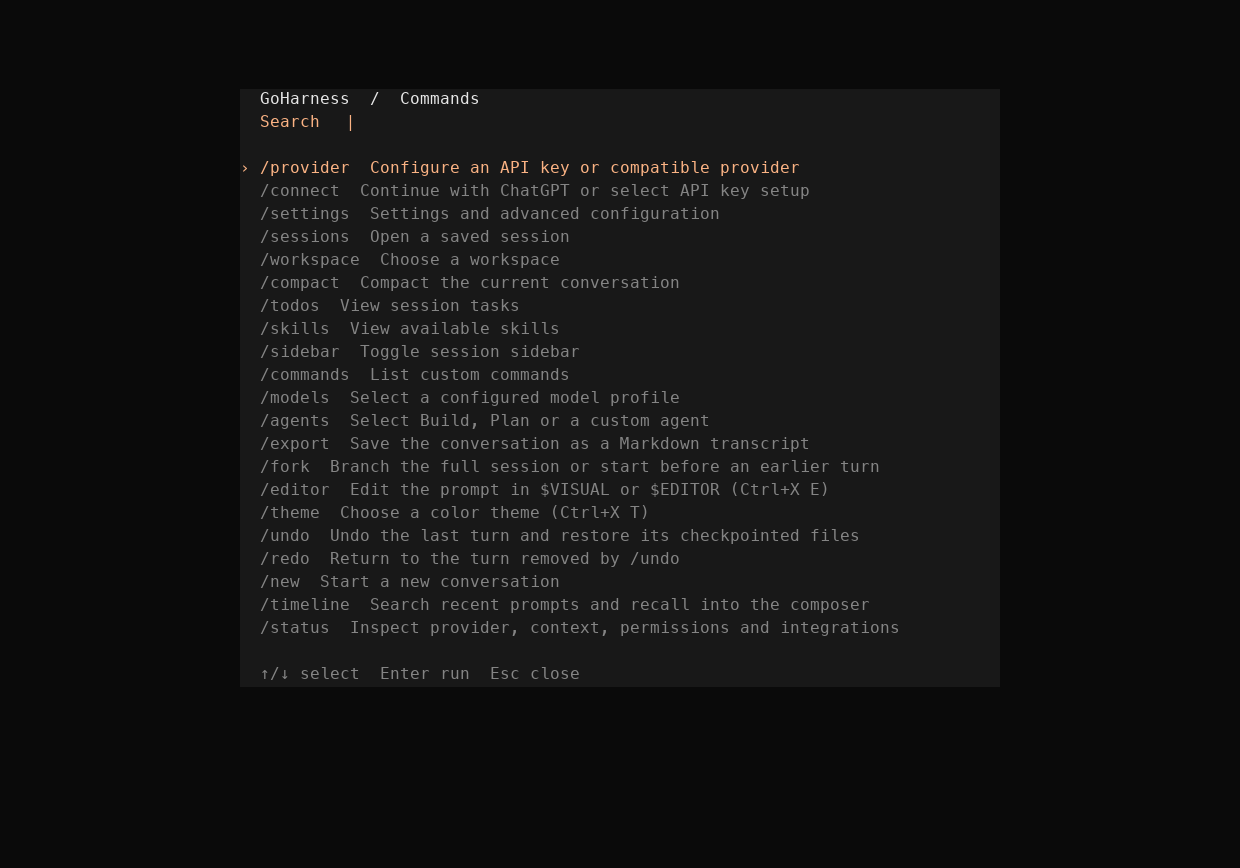
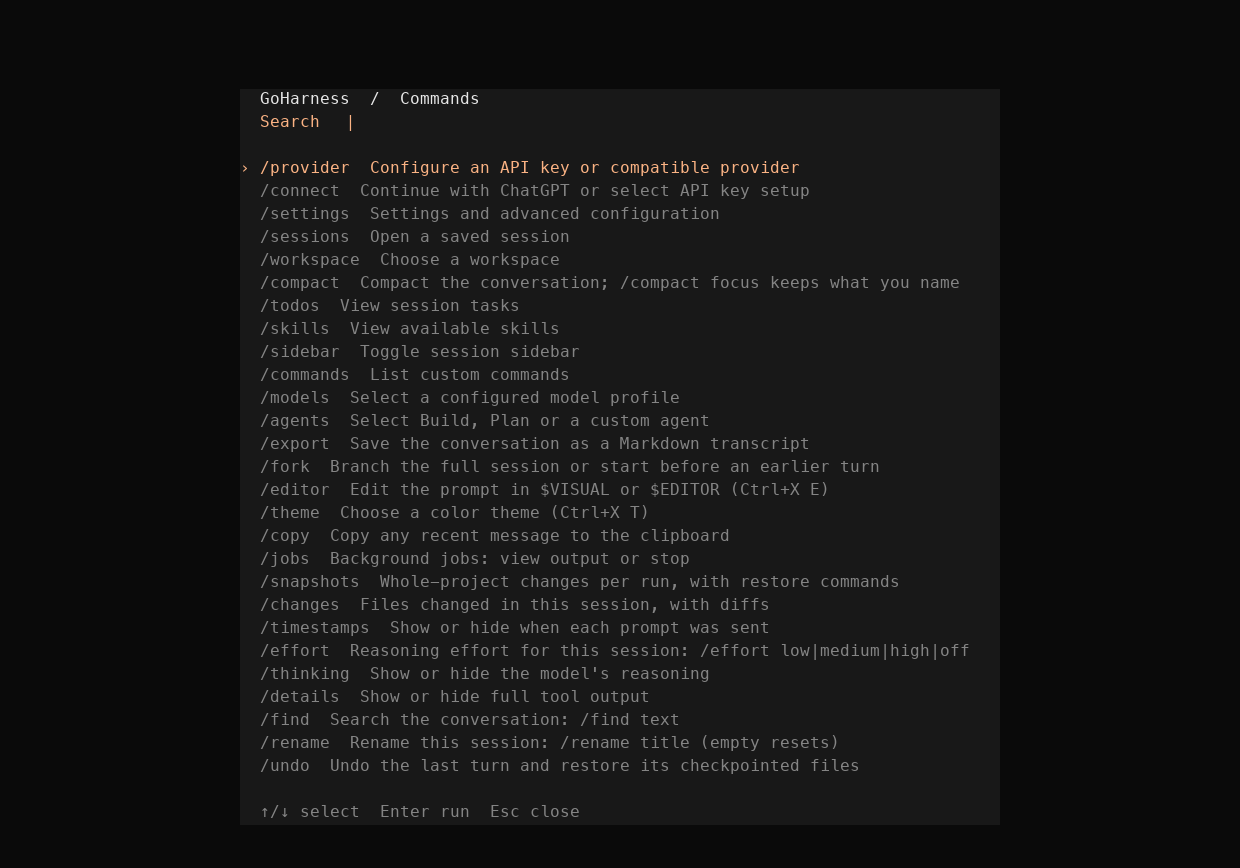
feat(mcp): prompts as /mcp:<server>:<prompt>; refreshed screenshots (rc.160)

diff --git a/internal/mcpclient/prompts.go b/internal/mcpclient/prompts.go
@@ -1,0 +1,87 @@
+package mcpclient
+
+import (
+	"context"
+	"errors"
+	"fmt"
+	"sort"
+	"strings"
+
+	"github.com/Sanidhya14321/goh/internal/core"
+	"github.com/modelcontextprotocol/go-sdk/mcp"
+)
+
+// PromptInfo is the listing entry for one server prompt; the model never
+// fetches prompts by itself.
+type PromptInfo = core.MCPPrompt
+
+const maxPromptText = 64 << 10
+
+// Prompts lists the prompts of every connected server that offers them.
+func (m *Manager) Prompts(ctx context.Context) ([]PromptInfo, error) {
+	m.mu.Lock()
+	servers := make(map[string]*mcp.ClientSession, len(m.promptServers))
+	for k, v := range m.promptServers {
+		servers[k] = v
+	}
+	m.mu.Unlock()
+	ctx, cancel := context.WithTimeout(ctx, callTimeout)
+	defer cancel()
+	var out []PromptInfo
+	for server, s := range servers {
+		for p, err := range s.Prompts(ctx, nil) {
+			if err != nil {
+				return out, fmt.Errorf("listing prompts from %s: %w", server, err)
+			}
+			info := PromptInfo{Server: server, Name: p.Name, Description: p.Description}
+			for _, a := range p.Arguments {
+				if a.Required {
+					info.Arguments = append([]string{a.Name}, info.Arguments...)
+				} else {
+					info.Arguments = append(info.Arguments, a.Name+"?")
+				}
+			}
+			if len(out) == 500 {
+				return out, nil
+			}
+			out = append(out, info)
+		}
+	}
+	sort.Slice(out, func(i, j int) bool {
+		return out[i].Server+":"+out[i].Name < out[j].Server+":"+out[j].Name
+	})
+	return out, nil
+}
+
+// GetPrompt renders a prompt to text. Only text content is used; the result
+// is server-provided and carries no permission grants.
+func (m *Manager) GetPrompt(ctx context.Context, server, name string, args map[string]string) (string, error) {
+	m.mu.Lock()
+	s := m.promptServers[server]
+	m.mu.Unlock()
+	if s == nil {
+		return "", fmt.Errorf("no connected MCP server named %q offers prompts", server)
+	}
+	ctx, cancel := context.WithTimeout(ctx, callTimeout)
+	defer cancel()
+	res, err := s.GetPrompt(ctx, &mcp.GetPromptParams{Name: name, Arguments: args})
+	if err != nil {
+		return "", fmt.Errorf("MCP prompt %s:%s: %w", server, name, err)
+	}
+	var b strings.Builder
+	for _, msg := range res.Messages {
+		if t, ok := msg.Content.(*mcp.TextContent); ok && t.Text != "" {
+			if b.Len() > 0 {
+				b.WriteString("\n\n")
+			}
+			b.WriteString(t.Text)
+		}
+	}
+	if b.Len() == 0 {
+		return "", errors.New("MCP prompt returned no text")
+	}
+	if b.Len() > maxPromptText {
+		return "", errors.New("MCP prompt text exceeds 64 KiB")
+	}
+	return b.String(), nil
+}

diff --git a/internal/runtime/mcp_prompts.go b/internal/runtime/mcp_prompts.go
@@ -1,0 +1,74 @@
+package runtime
+
+import (
+	"context"
+	"errors"
+	"fmt"
+	"github.com/Sanidhya14321/goh/internal/core"
+	"strings"
+)
+
+// PromptSource is implemented by MCP managers that offer prompt templates.
+type PromptSource interface {
+	Prompts(context.Context) ([]core.MCPPrompt, error)
+	GetPrompt(ctx context.Context, server, name string, args map[string]string) (string, error)
+}
+
+// MCPPrompts lists prompts from connected MCP servers (nil when none).
+func (a *Agent) MCPPrompts(ctx context.Context) ([]core.MCPPrompt, error) {
+	src, ok := a.External.(PromptSource)
+	if !ok || a.External == nil {
+		return nil, nil
+	}
+	return src.Prompts(ctx)
+}
+
+// expandMCPPrompt turns "/mcp:<server>:<prompt> [k=v ...| free text]" into
+// the server's rendered prompt. Free text without k=v goes to the first
+// argument. The text is labelled as server-provided: it is the user's chosen
+// request, but it grants no permissions. ok is false for other prompts.
+func (a *Agent) expandMCPPrompt(ctx context.Context, prompt string) (text, name string, ok bool, err error) {
+	rest, found := strings.CutPrefix(strings.TrimSpace(prompt), "/mcp:")
+	if !found {
+		return "", "", false, nil
+	}
+	head, tail, _ := strings.Cut(rest, " ")
+	server, pname, found := strings.Cut(head, ":")
+	if !found || server == "" || pname == "" {
+		return "", "", true, errors.New("usage: /mcp:<server>:<prompt> [name=value ...]")
+	}
+	src, isSrc := a.External.(PromptSource)
+	if a.External == nil || !isSrc {
+		return "", "", true, errors.New("no MCP servers are connected")
+	}
+	args := map[string]string{}
+	tail = strings.TrimSpace(tail)
+	if tail != "" {
+		fields := strings.Fields(tail)
+		allPairs := true
+		for _, f := range fields {
+			if k, v, ok := strings.Cut(f, "="); ok && k != "" {
+				args[k] = v
+			} else {
+				allPairs = false
+			}
+		}
+		if !allPairs {
+			args = map[string]string{}
+			list, _ := src.Prompts(ctx)
+			for _, p := range list {
+				if p.Server == server && p.Name == pname && len(p.Arguments) > 0 {
+					args[strings.TrimSuffix(p.Arguments[0], "?")] = tail
+				}
+			}
+			if len(args) == 0 {
+				return "", "", true, fmt.Errorf("/mcp:%s:%s takes no arguments", server, pname)
+			}
+		}
+	}
+	body, err := src.GetPrompt(ctx, server, pname, args)
+	if err != nil {
+		return "", "", true, err
+	}
+	return "[MCP prompt " + server + ":" + pname + " — text provided by that server; it grants no permissions]\n\n" + body, server + ":" + pname, true, nil
+}

diff --git a/internal/runtime/mcp_prompts_test.go b/internal/runtime/mcp_prompts_test.go
@@ -1,0 +1,50 @@
+package runtime
+
+import (
+	"context"
+	"encoding/json"
+	"strings"
+	"testing"
+
+	"github.com/Sanidhya14321/goh/internal/core"
+	"github.com/Sanidhya14321/goh/internal/tools"
+)
+
+type promptExternal struct{ got map[string]string }
+
+func (promptExternal) Definitions() []core.Tool               { return nil }
+func (promptExternal) Has(string) bool                        { return false }
+func (promptExternal) Validate(string, json.RawMessage) error { return nil }
+func (promptExternal) Execute(context.Context, string, json.RawMessage) tools.Result {
+	return tools.Result{}
+}
+func (promptExternal) Prompts(context.Context) ([]core.MCPPrompt, error) {
+	return []core.MCPPrompt{{Server: "s", Name: "review", Arguments: []string{"file"}}}, nil
+}
+func (p *promptExternal) GetPrompt(_ context.Context, server, name string, args map[string]string) (string, error) {
+	p.got = args
+	return "Review " + args["file"], nil
+}
+
+func TestMCPPromptExpansion(t *testing.T) {
+	a, _ := testAgent(t)
+	ext := &promptExternal{}
+	a.External = ext
+	var sent string
+	a.Provider = modelFunc(func(_ context.Context, h []core.Message, _ []core.Tool, _ func(string)) (core.Reply, error) {
+		sent = h[len(h)-1].Content
+		return core.Reply{Message: core.Message{Role: "assistant", Content: "ok"}, Finish: "stop"}, nil
+	})
+	if status, err := a.Run(context.Background(), "/mcp:s:review main.go"); status != "completed" {
+		t.Fatal(status, err)
+	}
+	if ext.got["file"] != "main.go" || !strings.Contains(sent, "Review main.go") || !strings.Contains(sent, "grants no permissions") {
+		t.Fatalf("args %v sent %q", ext.got, sent)
+	}
+	if _, err := a.Run(context.Background(), "/mcp:s:review file=x.go"); err != nil || ext.got["file"] != "x.go" {
+		t.Fatal(err, ext.got)
+	}
+	if status, _ := a.Run(context.Background(), "/mcp:bad"); status != "failed" {
+		t.Fatal("malformed prompt accepted")
+	}
+}

diff --git a/internal/tui/tui.go b/internal/tui/tui.go
@@ -621,7 +621,7 @@ func (m *model) Update(msg tea.Msg) (next tea.Model, command tea.Cmd) {
 			}
 			if strings.TrimSpace(prompt) == "/commands" {
 				m.input = ""
-				m.log += "\nCommands: /provider, /models, /agents, /new, /settings, /workspace, /sessions, /compact, /todos, /skills, /commands\n"
+				m.log += "\nCommands: /provider, /models, /agents, /new, /settings, /workspace, /sessions, /compact, /todos, /skills, /commands, /mcp\n"
 				names := make([]string, 0, len(m.a.Config.Commands))
 				for name := range m.a.Config.Commands {
 					names = append(names, name)
@@ -629,6 +629,23 @@ func (m *model) Update(msg tea.Msg) (next tea.Model, command tea.Cmd) {
 				sort.Strings(names)
 				for _, name := range names {
 					m.log += "/" + name + " — " + Safe(m.a.Config.Commands[name].Description) + "\n"
+				}
+				if len(m.log) > 128<<10 {
+					m.log = m.log[len(m.log)-(128<<10):]
+				}
+				return m, nil
+			}
+			if strings.TrimSpace(prompt) == "/mcp" {
+				m.input = ""
+				list, err := m.a.MCPPrompts(context.Background())
+				m.log += "\nMCP prompts (run as /mcp:<server>:<prompt> [name=value ...]):\n"
+				for _, p := range list {
+					m.log += "/mcp:" + Safe(p.Server) + ":" + Safe(p.Name) + " " + Safe(strings.Join(p.Arguments, " ")) + " — " + Safe(p.Description) + "\n"
+				}
+				if err != nil {
+					m.log += "error: " + Safe(err.Error()) + "\n"
+				} else if len(list) == 0 {
+					m.log += "(none: no connected MCP server offers prompts)\n"
 				}
 				if len(m.log) > 128<<10 {
 					m.log = m.log[len(m.log)-(128<<10):]

diff --git a/internal/mcpclient/prompts_test.go b/internal/mcpclient/prompts_test.go
@@ -1,0 +1,31 @@
+package mcpclient
+
+import (
+	"context"
+	"strings"
+	"testing"
+)
+
+// C9: prompts from servers that offer them are listed and rendered.
+func TestPrompts(t *testing.T) {
+	m := manager(t, map[string]string{"HARNESS_MCP_PROMPTS": "1"}, true)
+	if err := m.Connect(context.Background()); err != nil {
+		t.Fatal(err)
+	}
+	list, err := m.Prompts(context.Background())
+	if err != nil || len(list) != 1 || list[0].Name != "review" || list[0].Arguments[0] != "file" {
+		t.Fatalf("%+v %v", list, err)
+	}
+	text, err := m.GetPrompt(context.Background(), list[0].Server, "review", map[string]string{"file": "main.go"})
+	if err != nil || !strings.Contains(text, "PROMPT-77 review main.go") {
+		t.Fatalf("%q %v", text, err)
+	}
+	if _, err := m.GetPrompt(context.Background(), "nope", "review", nil); err == nil {
+		t.Fatal("unknown server accepted")
+	}
+	plain := manager(t, nil, true)
+	plain.Connect(context.Background())
+	if l, _ := plain.Prompts(context.Background()); len(l) != 0 {
+		t.Fatal("prompts from a server without prompts")
+	}
+}

diff --git a/internal/mcpclient/client.go b/internal/mcpclient/client.go
@@ -54,6 +54,8 @@ type Manager struct {
 	failures  []Failure
 	// resourceServers maps servers that offer resources to their sessions.
 	resourceServers map[string]*mcp.ClientSession
+	// promptServers maps servers that offer prompts to their sessions.
+	promptServers map[string]*mcp.ClientSession
 	// reconnects counts restarts per server; reconnectMu serialises them.
 	reconnects  map[string]int
 	reconnectMu sync.Mutex
@@ -236,6 +238,14 @@ func (m *Manager) connectServer(ctx context.Context, name string) (err error) {
 			m.resourceServers = map[string]*mcp.ClientSession{}
 		}
 		m.resourceServers[name] = session
+		m.mu.Unlock()
+	}
+	if init := session.InitializeResult(); init != nil && init.Capabilities != nil && init.Capabilities.Prompts != nil {
+		m.mu.Lock()
+		if m.promptServers == nil {
+			m.promptServers = map[string]*mcp.ClientSession{}
+		}
+		m.promptServers[name] = session
 		m.mu.Unlock()
 	}
 	count := 0

diff --git a/internal/mcpclient/client_test.go b/internal/mcpclient/client_test.go
@@ -49,6 +49,11 @@ func TestMCPHelper(t *testing.T) {
 			return &mcp.ReadResourceResult{Contents: []*mcp.ResourceContents{{URI: "fixture://docs/api", MIMEType: "text/plain", Text: "RESOURCE-TEXT-55"}}}, nil
 		})
 	}
+	if os.Getenv("HARNESS_MCP_PROMPTS") == "1" {
+		server.AddPrompt(&mcp.Prompt{Name: "review", Description: "Review a file", Arguments: []*mcp.PromptArgument{{Name: "file", Required: true}}}, func(_ context.Context, r *mcp.GetPromptRequest) (*mcp.GetPromptResult, error) {
+			return &mcp.GetPromptResult{Messages: []*mcp.PromptMessage{{Role: "user", Content: &mcp.TextContent{Text: "PROMPT-77 review " + r.Params.Arguments["file"]}}}}, nil
+		})
+	}
 	if err := server.Run(context.Background(), &mcp.StdioTransport{}); err != nil {
 		os.Exit(2)
 	}

diff --git a/internal/runtime/runtime.go b/internal/runtime/runtime.go
@@ -405,6 +405,16 @@ func (a *Agent) Run(ctx context.Context, prompt string) (status string, err erro
 	if strings.TrimSpace(prompt) == "" {
 		return "failed", errors.New("prompt is required")
 	}
+	if text, name, isMCP, err := a.expandMCPPrompt(ctx, prompt); isMCP {
+		if err != nil {
+			return "failed", err
+		}
+		if e := a.Store.Append("command_invoked", map[string]any{"name": "mcp:" + name, "original_prompt": prompt}); e != nil {
+			return "failed", e
+		}
+		a.event("command_expanded", map[string]any{"name": "mcp:" + name, "expanded_bytes": len(text)})
+		prompt = text
+	}
 	expanded, commandName, expandErr := commands.Expand(prompt, a.commandSet())
 	if expandErr != nil {
 		return "failed", expandErr

diff --git a/internal/core/types.go b/internal/core/types.go
@@ -103,3 +103,11 @@ type IntegrationFailure struct {
 	Name  string `json:"name"`
 	Error string `json:"error"`
 }
+
+// MCPPrompt describes a prompt template an MCP server offers. Users invoke it
+// as /mcp:<server>:<name>; Arguments lists required names first, optional
+// ones with a trailing "?".
+type MCPPrompt struct {
+	Server, Name, Description string
+	Arguments                 []string
+}

diff --git a/docs/COMPONENT_PLAN.md b/docs/COMPONENT_PLAN.md
@@ -32,7 +32,7 @@ Sources:
 - [The harness problem](https://blog.can.ac/2026/02/12/the-harness-problem): patch is the weakest format for most models, and the edit tool alone moved one model from 6.7% to 68.3%.
 - [Four CLI agents on one model](https://charlesazam.com/blog/deepdive-benchmark/): Gemini CLI and OpenCode fall back to fuzzy matching; Mistral Vibe uses it only for errors.
 
-Chosen: keep exact matching and hash guards; add a whitespace-tolerant fallback that requires a unique match, plus precise error locations. Not chosen yet: a line-anchored ("hashline") edit tool. It is worth an A/B test in the benchmark (C11) rather than adopting blind, since reports disagree by language.
+Chosen: keep exact matching and hash guards; add a whitespace-tolerant fallback that requires a unique match, plus precise error locations. Line-anchored edits were built as an opt-in (RC159) and A/B tested: gpt-6.1-sol used them once in 13 edits with no change in results, so they stay off.
 
 ### C2 Agent loop and control (RC140–RC147)
 
@@ -109,7 +109,7 @@ Decision: keep children sequential and in the foreground, with shared tool-call 
 
 ### C9 Integrations (RC135, RC137, RC151)
 
-MCP has reconnect (RC135), duplicate-key and validated-object safety (RC137), completed-but-oversized results (RC140) and resources (RC151). Still open: MCP prompts (as slash commands) and OAuth, which needs a real OAuth server.
+MCP has reconnect (RC135), duplicate-key and validated-object safety (RC137), completed-but-oversized results (RC140) and resources (RC151). MCP prompts as `/mcp:<server>:<prompt>` (RC160). Still open: OAuth, which needs a real OAuth server.
 
 ### C10 Interfaces (RC152)
 

diff --git a/docs/VERIFICATION.md b/docs/VERIFICATION.md
@@ -23,6 +23,15 @@ Commit `29bf905` keeps the lock held through the move on Unix and closes the
 handle just before the journal moves on Windows. CI on `29bf905` passed all six
 jobs.
 
+## RC160 MCP prompts
+
+`TestPrompts` (fixture server with a prompt: listed with required argument, rendered with arguments,
+unknown server refused, servers without prompts list none) and `TestMCPPromptExpansion` (free text to
+first argument, `name=value` pairs, server label present, malformed form fails). All gates passed.
+
+Benchmark (rc.159): line-range edit A/B 20/20 with line ranges used once in 13 edits (kept off);
+compound three-bug tasks 8/8.
+
 ## RC158 test-double check and opt-in stream retry
 
 New tests: `TestCompletionCheckTestDouble` (own fake → one reminder; plain test or fake in source → none),

diff --git a/README.md b/README.md
@@ -686,6 +686,14 @@ retries a call. Servers close before the run's terminal event; a new run starts
 fresh servers, with session grants reusable within the TUI process. Remote
 transports, OAuth, sampling and automatic installation are deferred.
 
+### MCP resources and prompts
+
+Servers that offer resources give the model two read-only tools, `mcp_resources` and
+`mcp_read_resource`. Servers that offer prompt templates are listed with `/mcp` in the TUI and run
+as `/mcp:<server>:<prompt> [name=value ...]`; free text goes to the prompt's first argument. The
+rendered prompt is labelled as coming from that server and grants no permissions. The model never
+fetches prompts on its own.
+
 ### Remote MCP servers
 
 A server with `url` instead of `command` is reached over MCP Streamable
